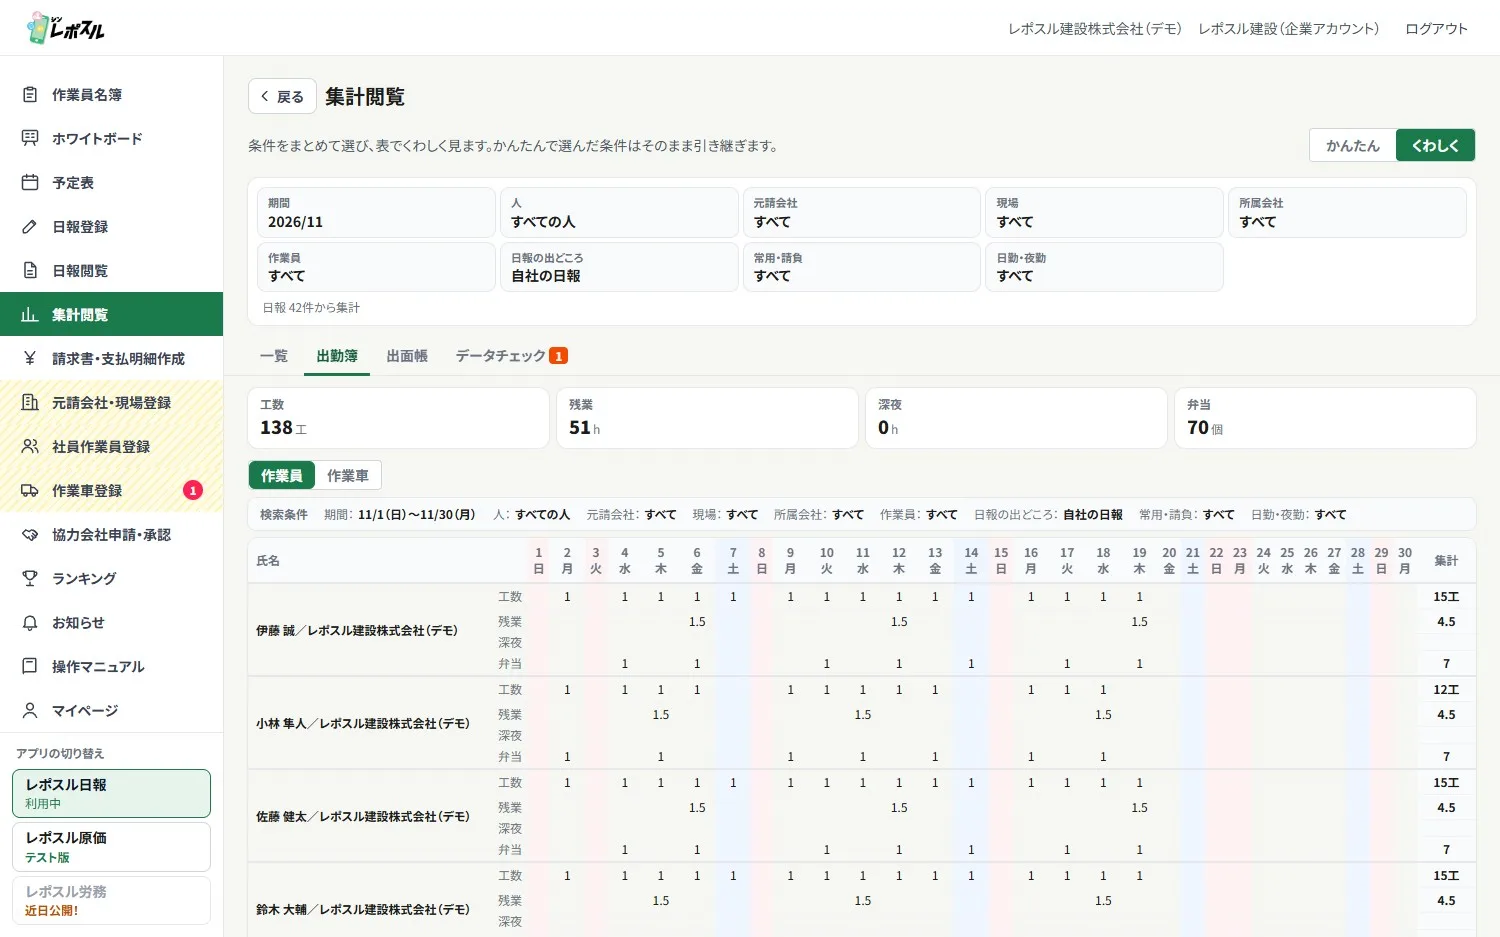
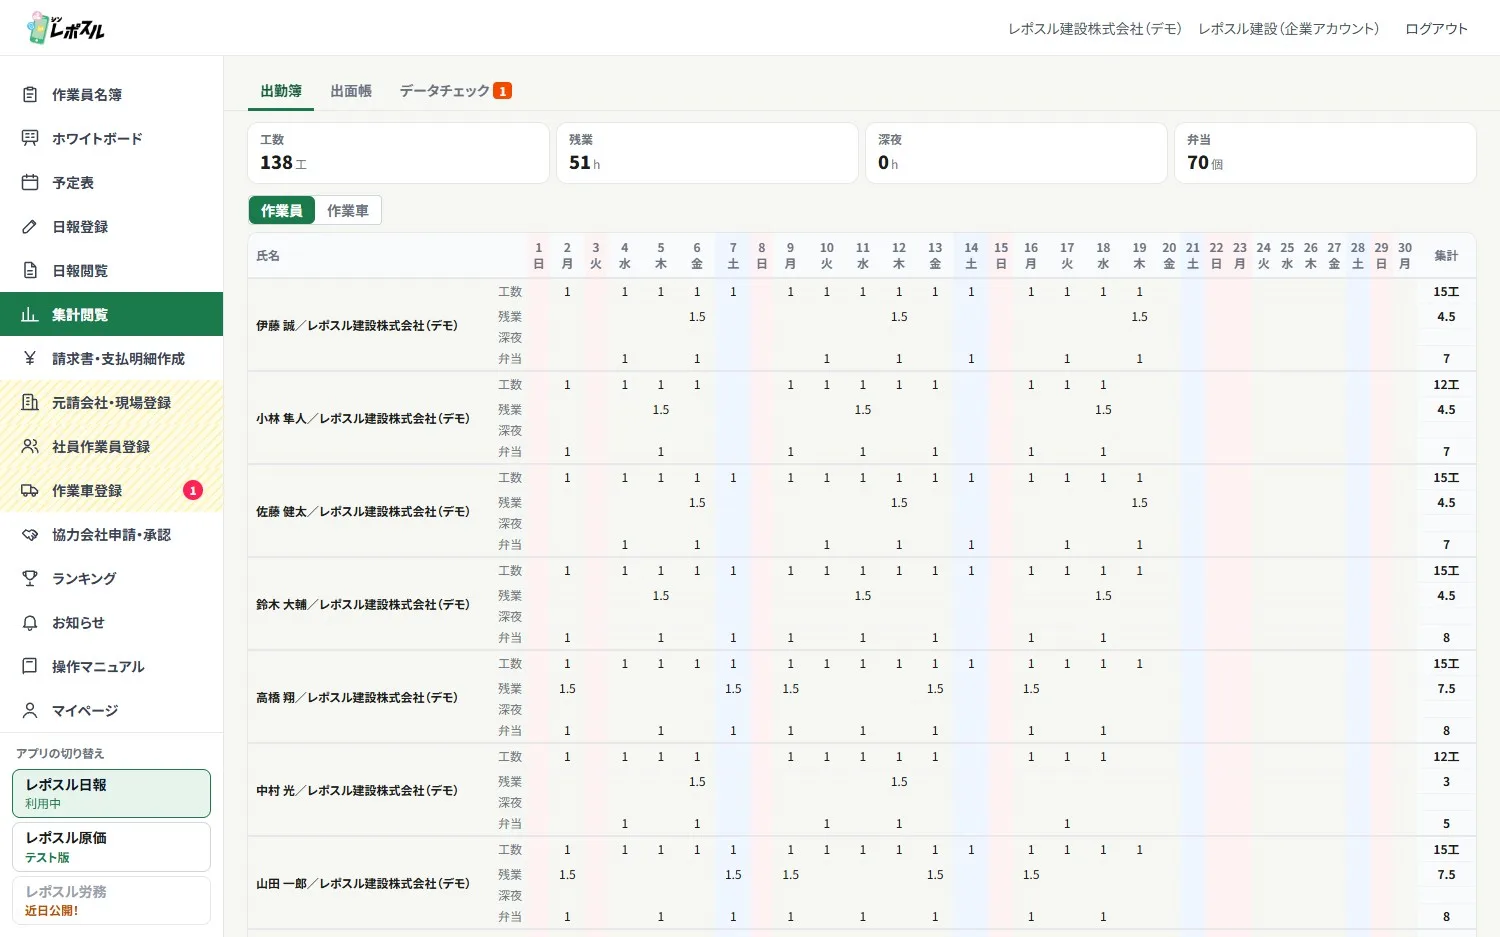
集計のスライド：上の検索の部分を外して、出勤簿・出面帳の表を画面いっぱいに

diff --git a/index.html b/index.html
@@ -686,7 +686,7 @@ footer{background:var(--ink);color:#d8d8d2;padding:22px 16px;text-align:center;f
   function animLedger(el) {
     var sv = el.querySelector(".sv"), L = layers(sv), ptr = sv.querySelector(".ptr");
     swap(sv, 0); ptr.classList.remove("vis"); place(ptr, L[0], 60, 75, true);
-    later(400, function () { ptr.classList.add("vis"); place(ptr, L[0], 27.1, 38); });
+    later(400, function () { ptr.classList.add("vis"); place(ptr, L[0], 23.4, 9.8); });
     press(ptr, 1500);
     later(1700, function () { swap(sv, 1); });
     later(2600, function () { ptr.classList.remove("vis"); });
